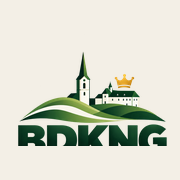
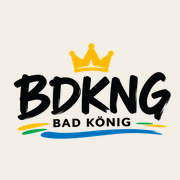
design neu
neues logo

Changed region(s): [[0.0556, 0.2222, 0.9722, 0.8333]]

diff --git a/index.html b/index.html
@@ -10,7 +10,7 @@
 <link rel="icon" type="image/png" sizes="32x32" href="/assets/favicon-32.png">
 <link rel="apple-touch-icon" sizes="180x180" href="/assets/apple-touch-icon.png">
 <meta name="msapplication-TileImage" content="/assets/favicon-512.png">
-<link rel="preload" as="image" href="https://www.badkoenig.de/bilder/altes-neues-schloss-blick-vom-hirtenberg.jpg" fetchpriority="high">
+<link rel="preload" as="image" href="/assets/bdkng-header.webp" fetchpriority="high">
 <meta name="robots" content="index,follow,max-image-preview:large,max-snippet:-1,max-video-preview:-1">
 <meta name="googlebot" content="index,follow,max-image-preview:large,max-snippet:-1">
 <meta name="theme-color" content="#1B4D2E">
@@ -25,13 +25,13 @@
 <meta property="og:title" content="BDKNG | Bad König kompakt">
 <meta property="og:description" content="Bad König auf einen Blick: Shop, Aktuelles, Verkehr, Veranstaltungen, Vereine, Genuss und Gewerbe. Regional, kompakt und mit Quellen.">
 <meta property="og:url" content="https://bdkng.de/">
-<meta property="og:image" content="https://www.badkoenig.de/bilder/altes-neues-schloss-blick-vom-hirtenberg.jpg">
+<meta property="og:image" content="https://bdkng.de/assets/bdkng-header.webp">
 <meta property="og:image:alt" content="Bad König im Odenwald – Blick auf Stadtkern, Schloss und Kirchturm">
 
 <meta name="twitter:card" content="summary_large_image">
 <meta name="twitter:title" content="BDKNG | Bad König kompakt">
 <meta name="twitter:description" content="Shop, Aktuelles, Verkehr, Veranstaltungen und Genuss aus Bad König im Odenwald.">
-<meta name="twitter:image" content="https://www.badkoenig.de/bilder/altes-neues-schloss-blick-vom-hirtenberg.jpg">
+<meta name="twitter:image" content="https://bdkng.de/assets/bdkng-header.webp">
 
 <link rel="preconnect" href="https://www.badkoenig.de">
 <link rel="alternate" type="text/markdown" href="/llms.txt" title="BDKNG – maschinenlesbare Website-Zusammenfassung">
@@ -49,7 +49,7 @@
         "Bad König kompakt"
       ],
       "url": "https://bdkng.de/",
-      "logo": "https://bdkng.de/assets/bdkng-logo.webp",
+      "logo": "https://bdkng.de/assets/bdkng-logo.png",
       "sameAs": [
         "https://www.facebook.com/bdkng.de/",
         "https://whatsapp.com/channel/0029VaQq65RCxoAv42xpsi0M"
@@ -170,7 +170,7 @@ footer p{font-size:13px;line-height:1.6;margin:0}
 @media(max-width:560px){.hero{height:470px}.herocopy h1{letter-spacing:-3px}.grid{grid-template-columns:1fr}.shop{padding:25px}.wa{align-items:flex-start;flex-direction:column}.test{margin-left:0}.foot{grid-template-columns:1fr}}
 
 .brand-logo{display:flex;align-items:center;padding:2px 0}
-.brand-logo img{height:58px;width:auto;display:block}
+.brand-logo img{height:58px;width:auto;display:block;object-fit:contain}
 .icon-tile{height:220px;display:flex;align-items:center;justify-content:center;position:relative;overflow:hidden}
 .icon-tile.aktuell{background:linear-gradient(145deg,#f7f3e9,#e7efe8)}
 .icon-tile.verkehr{background:linear-gradient(145deg,#f7f3e9,#f3e7e7)}
@@ -180,6 +180,10 @@ footer p{font-size:13px;line-height:1.6;margin:0}
 .cardtop img{object-fit:cover;object-position:center}
 @media(max-width:560px){.brand-logo img{height:50px}}
 
+
+.hero-final::after{background:linear-gradient(90deg,rgba(0,0,0,0),rgba(0,0,0,0) 60%,rgba(0,0,0,.04))}
+.hero-actions-only{top:auto;bottom:34px;left:6%;transform:none}
+.hero-actions-only .ctas{filter:drop-shadow(0 3px 8px rgba(0,0,0,.25))}
 </style>
 </head>
 <body>
@@ -194,19 +198,16 @@ footer p{font-size:13px;line-height:1.6;margin:0}
 </nav></div></header>
 
 <main class="wrap">
-<section class="hero">
-<img src="https://www.badkoenig.de/bilder/altes-neues-schloss-blick-vom-hirtenberg.jpg" alt="Bad König im Odenwald – Stadtkern mit Schloss und Kirchturm" fetchpriority="high" decoding="async">
-<div class="herocopy">
-<h1>BDKNG</h1>
-<span class="city">BAD KÖNIG</span>
-<p class="claim">Unsere Stadt. Unsere Heimat.</p>
+<section class="hero hero-final">
+<img src="/assets/bdkng-header.webp" alt="BDKNG – Bad König Panorama mit Schloss und Logo" fetchpriority="high" decoding="async">
+<div class="herocopy hero-actions-only">
 <div class="ctas">
 <a href="#shop" class="btn btn-shop">🛍 Zum BDKNG Shop →</a>
 <a href="#kompakt" class="btn btn-secondary">Bad König kompakt</a>
 </div>
 </div>
 </section>
-<div class="credit">Foto: R. Veit · Nutzung mit Freigabe</div>
+<div class="credit">BDKNG · Bad König</div>
 
 <section class="shop" id="shop">
 <div>
@@ -227,12 +228,12 @@ footer p{font-size:13px;line-height:1.6;margin:0}
 <div class="grid">
 
 <article class="card" id="aktuell">
-<div class="icon-tile aktuell"><div class="icon-symbol">i</div><span class="tag" style="background:#1B4D2E">AKTUELL</span></div>
+<div class="cardtop"><img src="/assets/bdkng-news.webp" alt="BDKNG News – Aktuelles aus Bad König"><span class="tag" style="background:#1B4D2E">AKTUELL</span></div>
 <div class="cardbody"><h3>Neuigkeiten aus Bad König</h3><p>Wichtige Informationen, Entscheidungen und aktuelle Meldungen aus unserer Stadt.</p><a class="more" href="#">Mehr erfahren →</a></div>
 </article>
 
 <article class="card" id="verkehr">
-<div class="icon-tile verkehr"><div class="icon-symbol">!</div><span class="tag" style="background:#df262f">VERKEHR</span></div>
+<div class="cardtop"><img src="/assets/bdkng-verkehr.webp" alt="BDKNG Verkehr – Auto auf der Brücke"><span class="tag" style="background:#df262f">VERKEHR</span></div>
 <div class="cardbody"><h3>Verkehr & Sperrungen</h3><p>Baustellen, Sperrungen, Umleitungen und wichtige Verkehrsinformationen rund um Bad König.</p><a class="more" href="#">Verkehr ansehen →</a></div>
 </article>
 
